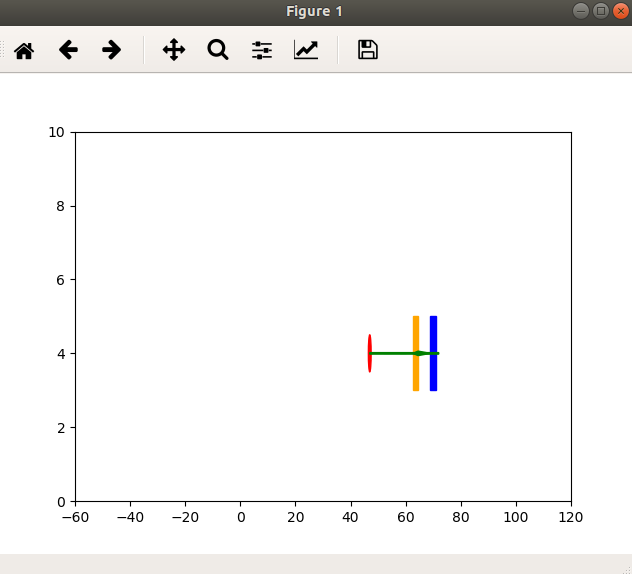
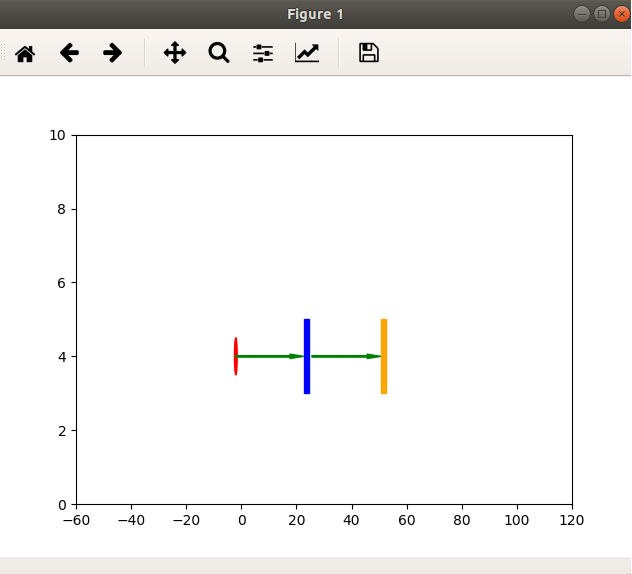
Masa_Resorte

diff --git a/Tarea 3. Masa Resorte/masaresorte.py b/Tarea 3. Masa Resorte/masaresorte.py
@@ -8,63 +8,48 @@ from matplotlib import animation
 from matplotlib.patches import ConnectionPatch
 
 #Constantes por fuera for performance purposes
-scale = 50
-lim = 130
+scale = 0.3 # 0 < scale < 6
+lim = 5
 #Masas
-m1 = 30
-m2 = 50
-beta = 0.4 #Coeficiente de Friccioń
+m1 = 10
+m2 = 5
+beta = 4 #Coeficiente de Friccioń
 #Constantes de Elasticidad
 k1 = 100
 k2 = 100
+#Tamaño de los resortes en reposo
+l1 = 10
+l2 = 10
 
 def masaresorte(X, t):
-  
     #Movimiento cosenoidal (Multiplico por una escala para hacerlo más 'amplio')
-    offset = scale * math.cos(t)
+    offset = scale * math.cos(2*t)
 
-    #Después de unas oscilaciones, Se deja de mover el resorte... 90 <= lim <= 180
+    #Después de cierto tiempo, se deja de mover 
     if(t >= lim):
-        offset = 0
+       offset = 0
+       
+    x1, dx1, x2, dx2 = X
 
-    x1,dx1, x2, dx2 = X
+    d1 = np.sqrt((x1-offset)**2)
+    d2 = np.sqrt((x2-x1)*(x2-x1))
+    
+    dv1 = (-beta*dx1 - k1*(d1 - l1)*(offset-x1)/d1 + k2*(d2 - l2)*(x2-x1)/d2)/m1
+    dv2 = (-beta*dx2 + k2*(d2 - l2)*(x1-x2)/d2)/m2
 
-    #Ecuaciones
-    #Ecuación para la masa 1
-    dv1dt = (-k1 * (x1 + offset) + k2*((x2+dx2) - (x1+dx1)) + beta*dx1)/m1
-    #Ecuación para la masa 2
-    dv2dt = (k2*(dx1 - dx2) + beta*dx2)/m2
+    return [dx1,dv1,dx2,dv2]
 
-    return [dx1, dv1dt, dx2, dv2dt]
+t = np.linspace(0,10,1800)
 
-#Simulo desde 90 para que el valor inicial de coseno sea 0
-t = np.linspace(90,180,10000)
-
-#Asumiendo que los resortes tienen su elongación natural acorde a la distancia entre un carrito y el otro
-#El primer argumento es una elongación inicial del primer resorte, el segundo una velocidad incial para la primera masa
-#el tercero una elongación inicial para el segundo resorte y el cuarto una velocidad inicial para la segunda masa
-
-Y = odeint(masaresorte, [0, 0, 0, 0], t)
-
-#Gráfica
-plt.xlabel('tiempo')
-plt.ylabel('aceleración')
-plt.axis('equal')
-plt.legend(['Carro 1','Carro 2'])
-
-#y[1,3] -> Gráfica de la aceleración en función del tiempo
-plt.plot(t,Y[:,1])
-plt.plot(t,Y[:,3])
-plt.show()
-#y[0,2] -> Grafica de la velocidad en función del tiempo
+Y = odeint(masaresorte, [6, 0, 18, 0], t)
 
 plt.xlabel('tiempo')
-plt.ylabel('velocidad')
-plt.axis('equal')
-plt.legend(['Carro 1','Carro 2'])
+plt.ylabel('x')
 
 plt.plot(t,Y[:,0])
 plt.plot(t,Y[:,2])
+plt.legend(['Carro 1','Carro 2'])
+
 plt.show()
 
 fig = plt.figure()
@@ -97,7 +82,7 @@ def animate(i):
     carrito2.xy = (x2, y)
 
     cx, cy = circle.center
-    cx = math.cos((i-45)/120)*scale
+    cx = math.cos((i+90)/180)*2
     circle.center = (cx,cy)
 
     line1 = plt.Arrow(cx, 4, x1 - cx, 0, width=0.2, color="green", hatch='o')
@@ -111,7 +96,7 @@ def animate(i):
 
 anim = animation.FuncAnimation(fig, animate, 
                                init_func=init, 
-                               frames=  1500, 
+                               frames=  1799, 
                                interval=1,
                                blit=True)
 
